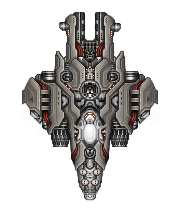
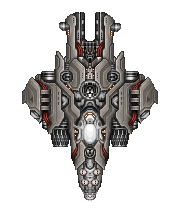
loot curve implemented, sprite clean up

diff --git a/src/data/world/systems/ptes_genericSystem.java b/src/data/world/systems/ptes_genericSystem.java
@@ -137,9 +137,15 @@ public class ptes_genericSystem extends ptes_baseSystemScript {
         Global.getLogger(ptes_genericSystem.class).info(LootPoints + " / " + averageCost + " / " + lootRolls);
         for (ptes_salvageEntity salvage : salvageList){
             if (salvage.factions.size() == 0 || salvage.factions.contains(faction.faction)) {
-                float weightMulti = (float) Math.pow(0.7f, Math.pow(((Math.abs(salvage.cost - averageCost) - lowestDeviation) / averageCost), 2f));
+                //loot distribution graph, x are cost compare to desired (average cost)
+                //https://www.desmos.com/calculator/flfxgduqxc
+                float weightMulti = salvage.cost / averageCost;
+                if (weightMulti < 1){
+                    weightMulti = 1 / weightMulti;
+                }
+                weightMulti = (float) Math.pow(0.4f, weightMulti - 1);
                 weightedSalvageEntities.add(salvage, salvage.weight * weightMulti);
-                Global.getLogger(ptes_genericSystem.class).info("added: " + salvage.id + " " + salvage.cost + " " + weightMulti);
+                Global.getLogger(ptes_genericSystem.class).info("added: " + Math.round(weightMulti * 1000f) / 1000f + " " + salvage.cost + " " + salvage.id);
             }
         }
         float pointsSpend = 0;

diff --git a/src/data/scripts/ptes_ModPlugin.java b/src/data/scripts/ptes_ModPlugin.java
@@ -213,6 +213,7 @@ public class ptes_ModPlugin extends BaseModPlugin {
         }
         logger("effects: " + mapEffects.size());
 
+
         logger("loading Map Objectives");
         mapObjectivesMap.clear();
         mapObjectives.clear();
